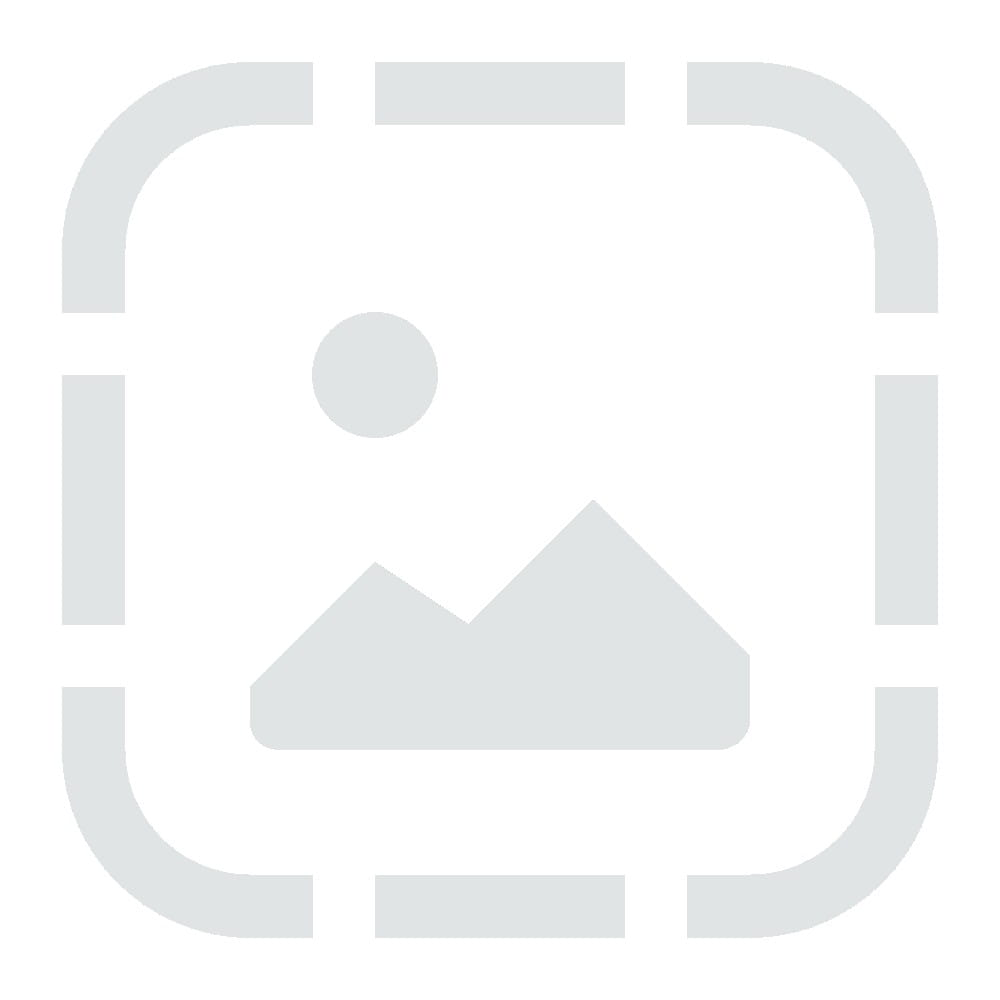
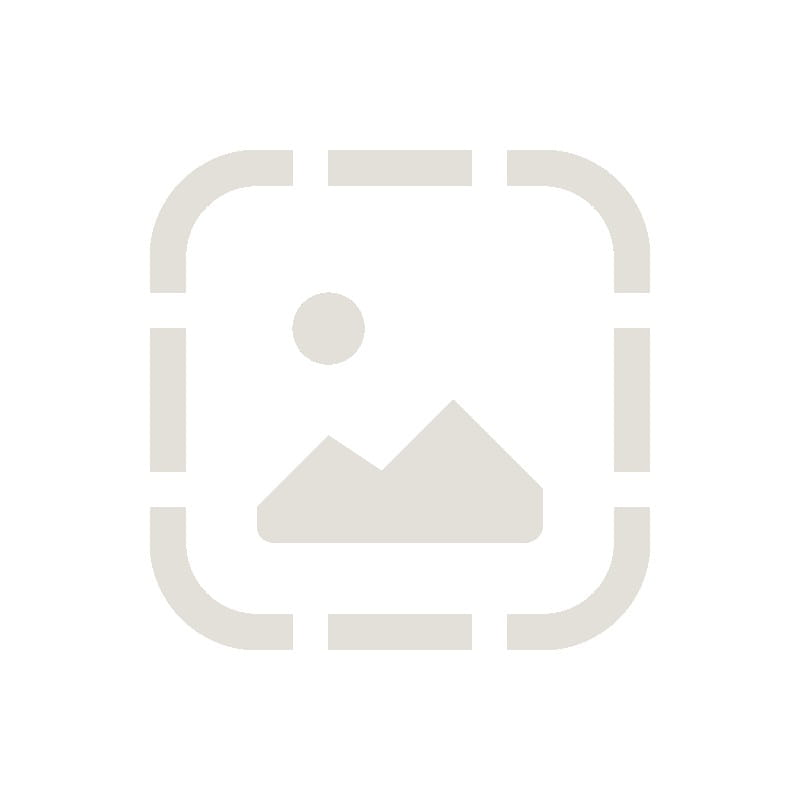
show "missing" picture

diff --git a/public/js/list.js b/public/js/list.js
@@ -161,7 +161,10 @@ class CCList {
         row.innerHTML = `
             <td class="_coin">
                 <a href="/coin/${ coin.id }">
-                    ${ coin.images?.obverse ? `<img src="/uploads/${ coin.images.obverse }" alt="${ coin.name }" loading="lazy" />` : '' }
+                    <img src="${ coin.images?.obverse
+                        ? `/uploads/${coin.images.obverse}`
+                        : `/images/missing.jpg`
+                    }" alt="${ coin.name }" loading="lazy" />
                     <b>${ this.escapeHtml( coin.name ) }</b>
                 </a>
             </td>
